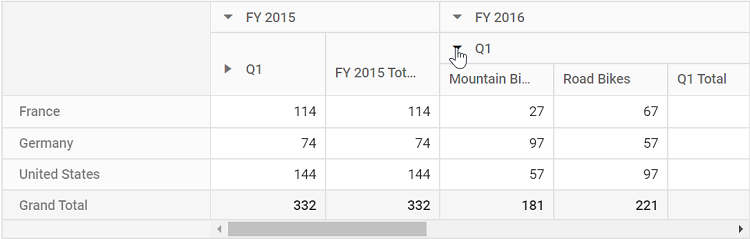
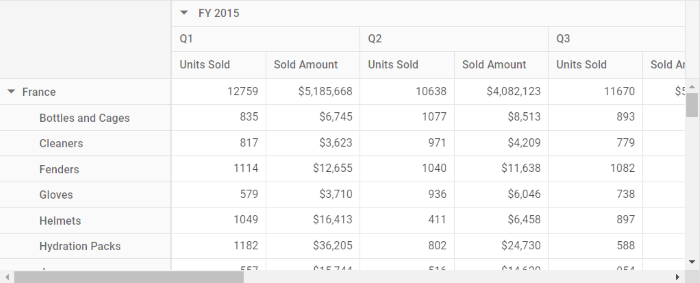
Integrated latest changes at 07-31-2024 10:30:09 PM

diff --git a/ej2-angular/code-snippet/pivot-grid/getting-started-cs107/src/datasource.ts b/ej2-angular/code-snippet/pivot-grid/getting-started-cs107/src/datasource.ts
@@ -1,17 +1,16 @@
-export let Pivot_Data: Object[] = [
-    { Amount: 2100, Country: "Canada", Date: "FY 2005", Product: "Bike", Quantity: 22, State: "Alberta" },
-    { Amount: 1100, Country: "Canada", Date: "FY 2006", Product: "Van", Quantity: 32, State: "Quebec" },
-    { Amount: 3100, Country: "Canada", Date: "FY 2007", Product: "Car", Quantity: 22, State: "Alberta" },
-    { Amount: 4800, Country: "France", Date: "FY 2005", Product: "Bike", Quantity: 49, State: "Charente-Maritime" },
-    { Amount: 9100, Country: "France", Date: "FY 2007", Product: "Car", Quantity: 64, State: "Charente-Maritime" },
-    { Amount: 2350, Country: "France", Date: "FY 2008", Product: "Van", Quantity: 46, State: "Gers" },
-    { Amount: 3400, Country: "Germany", Date: "FY 2005", Product: "Bike", Quantity: 78, State: "Bayern" },
-    { Amount: 8400, Country: "Germany", Date: "FY 2006", Product: "Van", Quantity: 90, State: "Hamburg" },
-    { Amount: 7200, Country: "Germany", Date: "FY 2008", Product: "Car", Quantity: 92, State: "Bayern" },
-    { Amount: 1040, Country: "United Kingdom", Date: "FY 2005", Product: "Bike", Quantity: 47, State: "England" },
-    { Amount: 1500, Country: "United Kingdom", Date: "FY 2006", Product: "Van", Quantity: 24, State: "England" },
-    { Amount: 4820, Country: "United Kingdom", Date: "FY 2008", Product: "Car", Quantity: 72, State: "England" },
-    { Amount: 1520, Country: "United States", Date: "FY 2006", Product: "Bike", Quantity: 53, State: "North Carolina" },
-    { Amount: 3320, Country: "United States", Date: "FY 2007", Product: "Car", Quantity: 49, State: "South Carolina" },
-    { Amount: 6300, Country: "United States", Date: "FY 2008", Product: "Van", Quantity: 45, State: "South Carolina" },
-];
+export let Pivot_Data: { [key: string]: Object }[] = [
+    { Amount: 2100, Country: "Canada", Date: "FY 2005", Product: "Bike", Quantity: 22, State: "Alberta" , 'Quarter': 'Q1' },
+    { Amount: 1100, Country: "Canada", Date: "FY 2006", Product: "Van", Quantity: 32, State: "Quebec" , 'Quarter': 'Q1' },
+    { Amount: 3100, Country: "Canada", Date: "FY 2007", Product: "Car", Quantity: 22, State: "Alberta" , 'Quarter': 'Q2' },
+    { Amount: 4800, Country: "France", Date: "FY 2005", Product: "Bike", Quantity: 49, State: "Charente-Maritime" ,'Quarter': 'Q2' },
+    { Amount: 9100, Country: "France", Date: "FY 2007", Product: "Car", Quantity: 64, State: "Charente-Maritime" , 'Quarter': 'Q3' },
+    { Amount: 2350, Country: "France", Date: "FY 2008", Product: "Van", Quantity: 46, State: "Gers" , 'Quarter': 'Q3' },
+    { Amount: 3400, Country: "Germany", Date: "FY 2005", Product: "Bike", Quantity: 78, State: "Bayern" , 'Quarter': 'Q4' },
+    { Amount: 8400, Country: "Germany", Date: "FY 2006", Product: "Van", Quantity: 90, State: "Hamburg" , 'Quarter': 'Q4' },
+    { Amount: 7200, Country: "Germany", Date: "FY 2008", Product: "Car", Quantity: 92, State: "Bayern" ,'Quarter': 'Q5' },
+    { Amount: 1040, Country: "United Kingdom", Date: "FY 2005", Product: "Bike", Quantity: 47, State: "England" ,'Quarter': 'Q5' },
+    { Amount: 1500, Country: "United Kingdom", Date: "FY 2006", Product: "Van", Quantity: 24, State: "England" ,'Quarter': 'Q6' },
+    { Amount: 4820, Country: "United Kingdom", Date: "FY 2008", Product: "Car", Quantity: 72, State: "England" ,'Quarter': 'Q6' },
+    { Amount: 1520, Country: "United States", Date: "FY 2006", Product: "Bike", Quantity: 53, State: "North Carolina" ,'Quarter': 'Q7' },
+    { Amount: 3320, Country: "United States", Date: "FY 2007", Product: "Car", Quantity: 49, State: "South Carolina" ,'Quarter': 'Q7' },
+  ];

diff --git a/ej2-angular/code-snippet/pivot-grid/getting-started-cs26/src/app.component.ts b/ej2-angular/code-snippet/pivot-grid/getting-started-cs26/src/app.component.ts
@@ -25,25 +25,22 @@ export class AppComponent implements OnInit {
   public data?: DataManager;
   public width?: string;
 
-    ngOnInit(): void {
-
-        this.data = new DataManager({
-          url: 'https://js.syncfusion.com/demos/ejServices/Wcf/Northwind.svc/Orders/',
-          adaptor: new ODataAdaptor,
-          crossDomain: true
-        }).executeQuery(new Query().take(8)).then((e: ReturnOption) => {
-          this.dataSourceSettings = {
-            dataSource: this.data,
-            expandAll: true,
-            filters: [],
-            columns: [{ name: 'OrderDate'}, { name: 'ShipCity' }],
-            rows: [{ name: 'OrderID' }, { name: 'CustomerID' }],
-            values: [{ name: 'Freight' }]
-          }
-        }) as any;
-
-        this.width = '100%';
+  ngOnInit(): void {
+    this.data = new DataManager({
+      url: 'https://services.syncfusion.com/js/production/api/Orders',
+      adaptor: new ODataAdaptor,
+      crossDomain: true
+    })
+    this.dataSourceSettings = {
+      dataSource: this.data,
+      expandAll: true,
+      filters: [],
+      columns: [{ name: 'OrderDate' }, { name: 'ShipCity' }],
+      rows: [{ name: 'OrderID' }, { name: 'CustomerID' }],
+      values: [{ name: 'Freight' }]
     }
+    this.width = '100%';
+  }
 }
 
 

diff --git a/ej2-angular/code-snippet/pivot-grid/getting-started-cs29/src/app.component.ts b/ej2-angular/code-snippet/pivot-grid/getting-started-cs29/src/app.component.ts
@@ -6,7 +6,7 @@ import { PivotViewAllModule, PivotFieldListAllModule } from '@syncfusion/ej2-ang
 
 import { Component, OnInit } from '@angular/core';
 import { IDataOptions, IDataSet, PivotView } from '@syncfusion/ej2-angular-pivotview';
-import { DataManager, WebApiAdaptor, Query, ReturnOption, ODataAdaptor } from '@syncfusion/ej2-data';
+import { DataManager, ODataV4Adaptor, WebApiAdaptor, Query, ReturnOption, ODataAdaptor } from '@syncfusion/ej2-data';
 
 @Component({
 imports: [
@@ -27,11 +27,11 @@ export class AppComponent implements OnInit {
 
   ngOnInit(): void {
     this.data = new DataManager({
-      url: 'https://js.syncfusion.com/demos/ejServices/Wcf/Northwind.svc/Orders',
-      adaptor: new ODataAdaptor(),
+      url: 'https://services.odata.org/V4/Northwind/Northwind.svc/Orders',
+      adaptor: new ODataV4Adaptor(),
       crossDomain: true
     });
-    this.data.defaultQuery = new Query().take(2);
+    this.data.defaultQuery = new Query().take(10);
     this.width = '100%';
     this.dataSourceSettings = {
       dataSource: this.data,
@@ -39,8 +39,8 @@ export class AppComponent implements OnInit {
       columns: [{ name: 'CustomerID', caption: 'Customer ID' }],
       rows: [{ name: 'ShipCountry', caption: 'Ship Country' }, { name: 'ShipCity', caption: 'Ship City' }],
       values: [{ name: 'Freight' }]
-      };
-    }
+    };
+  }
 }
 
 

diff --git a/ej2-angular/code-snippet/common/fluent2-cs1/src/app.component.ts b/ej2-angular/code-snippet/common/fluent2-cs1/src/app.component.ts
@@ -4,7 +4,7 @@ import { ButtonModule, CheckBoxModule } from '@syncfusion/ej2-angular-buttons'
 import { enableRipple } from '@syncfusion/ej2-base'
 import { SwitchModule} from '@syncfusion/ej2-angular-buttons'
 import { FormsModule } from '@angular/forms'
-
+import { CommonModule } from '@angular/common';
 import { Component } from '@angular/core';
 
 @Component({
@@ -13,13 +13,14 @@ imports: [
         ButtonModule,
         CheckBoxModule,
         SwitchModule,
-        FormsModule
+        FormsModule,
+        CommonModule
     ],
 
 
 standalone: true,
     selector: 'app-root',
-    styleUrls:['./style.css'],
+    styleUrls:['./styles.css'],
     template:`<div [ngClass]="{'e-dark-mode': isChecked, 'dark': isChecked}">
     <ejs-checkbox label="Enable Darkmode" (change)="toggleCheckbox()"></ejs-checkbox><br/>
    

diff --git a/ej2-angular/code-snippet/common/material3-cs1/src/app.component.ts b/ej2-angular/code-snippet/common/material3-cs1/src/app.component.ts
@@ -4,7 +4,7 @@ import { ButtonModule, CheckBoxModule } from '@syncfusion/ej2-angular-buttons'
 import { enableRipple } from '@syncfusion/ej2-base'
 import { SwitchModule} from '@syncfusion/ej2-angular-buttons'
 import { FormsModule } from '@angular/forms'
-
+import { CommonModule } from '@angular/common';
 import { Component } from '@angular/core';
 
 @Component({
@@ -13,13 +13,14 @@ imports: [
         ButtonModule,
         CheckBoxModule,
         SwitchModule,
-        FormsModule
+        FormsModule,
+        CommonModule
     ],
 
 
 standalone: true,
     selector: 'app-root',
-    styleUrls:['./style.css'],
+    styleUrls:['./styles.css'],
     template:`<div [ngClass]="{'e-dark-mode': isChecked, 'dark': isChecked}">
     <ejs-checkbox label="Enable Darkmode" (change)="toggleCheckbox()"></ejs-checkbox><br/>
    

diff --git a/ej2-angular/code-snippet/pivot-grid/getting-started-cs84/src/app.component.ts b/ej2-angular/code-snippet/pivot-grid/getting-started-cs84/src/app.component.ts
@@ -25,7 +25,7 @@ standalone: true,
   providers: [FieldListService],
   styleUrls: ['./app.component.css'],
   // specifies the template string for the pivot table component
-  template: `<ejs-pivotfieldlist #pivotfieldlist id='PivotFieldList' [dataSourceSettings]=dataSourceSettings renderMode="Popup" (enginePopulated)='afterPopulate($event)' target='#fieldlisttarget' allowCalculatedField='true' (load)='onLoad()' (dataBound)='ondataBound()'></ejs-pivotfieldlist> <ejs-pivotview #pivotview id='PivotView' height='530' (enginePopulated)='afterEnginePopulate($event)' [gridSettings]='gridSettings'></ejs-pivotview> <div class="col-md-2"><button ej-button id='fieldlistbtn'>Open Field List</button></div><div id='fieldlisttarget'></div>`
+  template: `<button ej-button id='fieldlistbtn'>Open Field List</button><ejs-pivotfieldlist #pivotfieldlist id='PivotFieldList' [dataSourceSettings]=dataSourceSettings renderMode="Popup" (enginePopulated)='afterPopulate($event)' target='#fieldlisttarget' allowCalculatedField='true' (load)='onLoad()' (dataBound)='ondataBound()'></ejs-pivotfieldlist> <ejs-pivotview #pivotview id='PivotView' height='530' (enginePopulated)='afterEnginePopulate($event)' [gridSettings]='gridSettings'></ejs-pivotview> <div class="col-md-2"></div><div id='fieldlisttarget'></div>`
 })
 
 export class AppComponent {
@@ -93,6 +93,3 @@ export class AppComponent {
         };
     }
  }
-
-
-

diff --git a/ej2-angular/code-snippet/common/fluent2-cs2/src/app.component.ts b/ej2-angular/code-snippet/common/fluent2-cs2/src/app.component.ts
@@ -16,7 +16,7 @@ imports: [
 
 standalone: true,
     selector: 'app-root',
-    styleUrls:['./style.css'],
+    styleUrls:['./styles.css'],
     template:`<div>   
      <!-- Primary Button - Used to represent a primary action. -->
      <button ejs-button cssClass="e-primary">Button</button>

diff --git a/ej2-angular/code-snippet/common/material3-cs2/src/app.component.ts b/ej2-angular/code-snippet/common/material3-cs2/src/app.component.ts
@@ -16,7 +16,7 @@ imports: [
 
 standalone: true,
     selector: 'app-root',
-    styleUrls:['./style.css'],
+    styleUrls:['./styles.css'],
     template:`<div>   
      <!-- Primary Button - Used to represent a primary action. -->
      <button ejs-button cssClass="e-primary">Button</button>

diff --git a/ej2-angular/code-snippet/pivot-grid/getting-started-cs108/src/app.component.ts b/ej2-angular/code-snippet/pivot-grid/getting-started-cs108/src/app.component.ts
@@ -20,7 +20,7 @@ standalone: true,
   selector: 'app-container',
   providers: [FieldListService, CalculatedFieldService],
   // specifies the template string for the pivot table component
-  template: `<div style="height: 480px;"><ejs-pivotview #pivotview id='PivotView' height='350' [dataSourceSettings]=dataSourceSettings [width]=width allowCalculatedField='true' showFieldList='true'></ejs-pivotview></div>`
+  template: `<ejs-pivotview #pivotview id='PivotView' height='350' [dataSourceSettings]=dataSourceSettings [width]=width allowCalculatedField='true' showFieldList='true'></ejs-pivotview>`
 })
 export class AppComponent {
     public dataSourceSettings?: IDataOptions;

diff --git a/ej2-angular/code-snippet/pivot-grid/getting-started-cs16/src/app.component.ts b/ej2-angular/code-snippet/pivot-grid/getting-started-cs16/src/app.component.ts
@@ -44,7 +44,7 @@ export class AppComponent implements OnInit {
             filters: [],
             conditionalFormatSettings: [
                 {
-                    measure: 'In_Stock',
+                    measure: 'Sold',
                     value1: 5000,
                     conditions: 'LessThan',
                     style: {

diff --git a/ej2-angular/code-snippet/pivot-grid/getting-started-cs194/src/app.component.ts b/ej2-angular/code-snippet/pivot-grid/getting-started-cs194/src/app.component.ts
@@ -19,7 +19,7 @@ standalone: true,
   selector: 'app-container',
   providers: [FieldListService, CalculatedFieldService],
   // specifies the template string for the pivot table component
-  template: `<ejs-pivotview #pivotview id='PivotView' height='350' [dataSourceSettings]=dataSourceSettings [width]=width allowCalculatedField='true' showFieldList='true'></ejs-pivotview>`
+  template: `<ejs-pivotview #pivotview id='PivotView' height='600' [dataSourceSettings]=dataSourceSettings [width]=width allowCalculatedField='true' showFieldList='true'></ejs-pivotview>`
 })
 export class AppComponent {
     public dataSourceSettings?: IDataOptions;

diff --git a/ej2-angular/code-snippet/pivot-grid/getting-started-cs83/src/app.component.ts b/ej2-angular/code-snippet/pivot-grid/getting-started-cs83/src/app.component.ts
@@ -20,7 +20,7 @@ imports: [
 standalone: true,
   selector: 'app-container',
   providers: [FieldListService, ToolbarService ],
-  template: `<div><ejs-pivotview #pivotview id='PivotView' height='350' [dataSourceSettings]=dataSourceSettings showFieldList='true' width=width showToolbar='true' [toolbar]='toolbarOptions'></ejs-pivotview></div>`
+  template: `<div><ejs-pivotview #pivotview id='PivotView' height='350' [dataSourceSettings]=dataSourceSettings showFieldList='true' [width]=width showToolbar='true' [toolbar]='toolbarOptions'></ejs-pivotview></div>`
 })
 export class AppComponent implements OnInit {
   public dataSourceSettings?: IDataOptions;